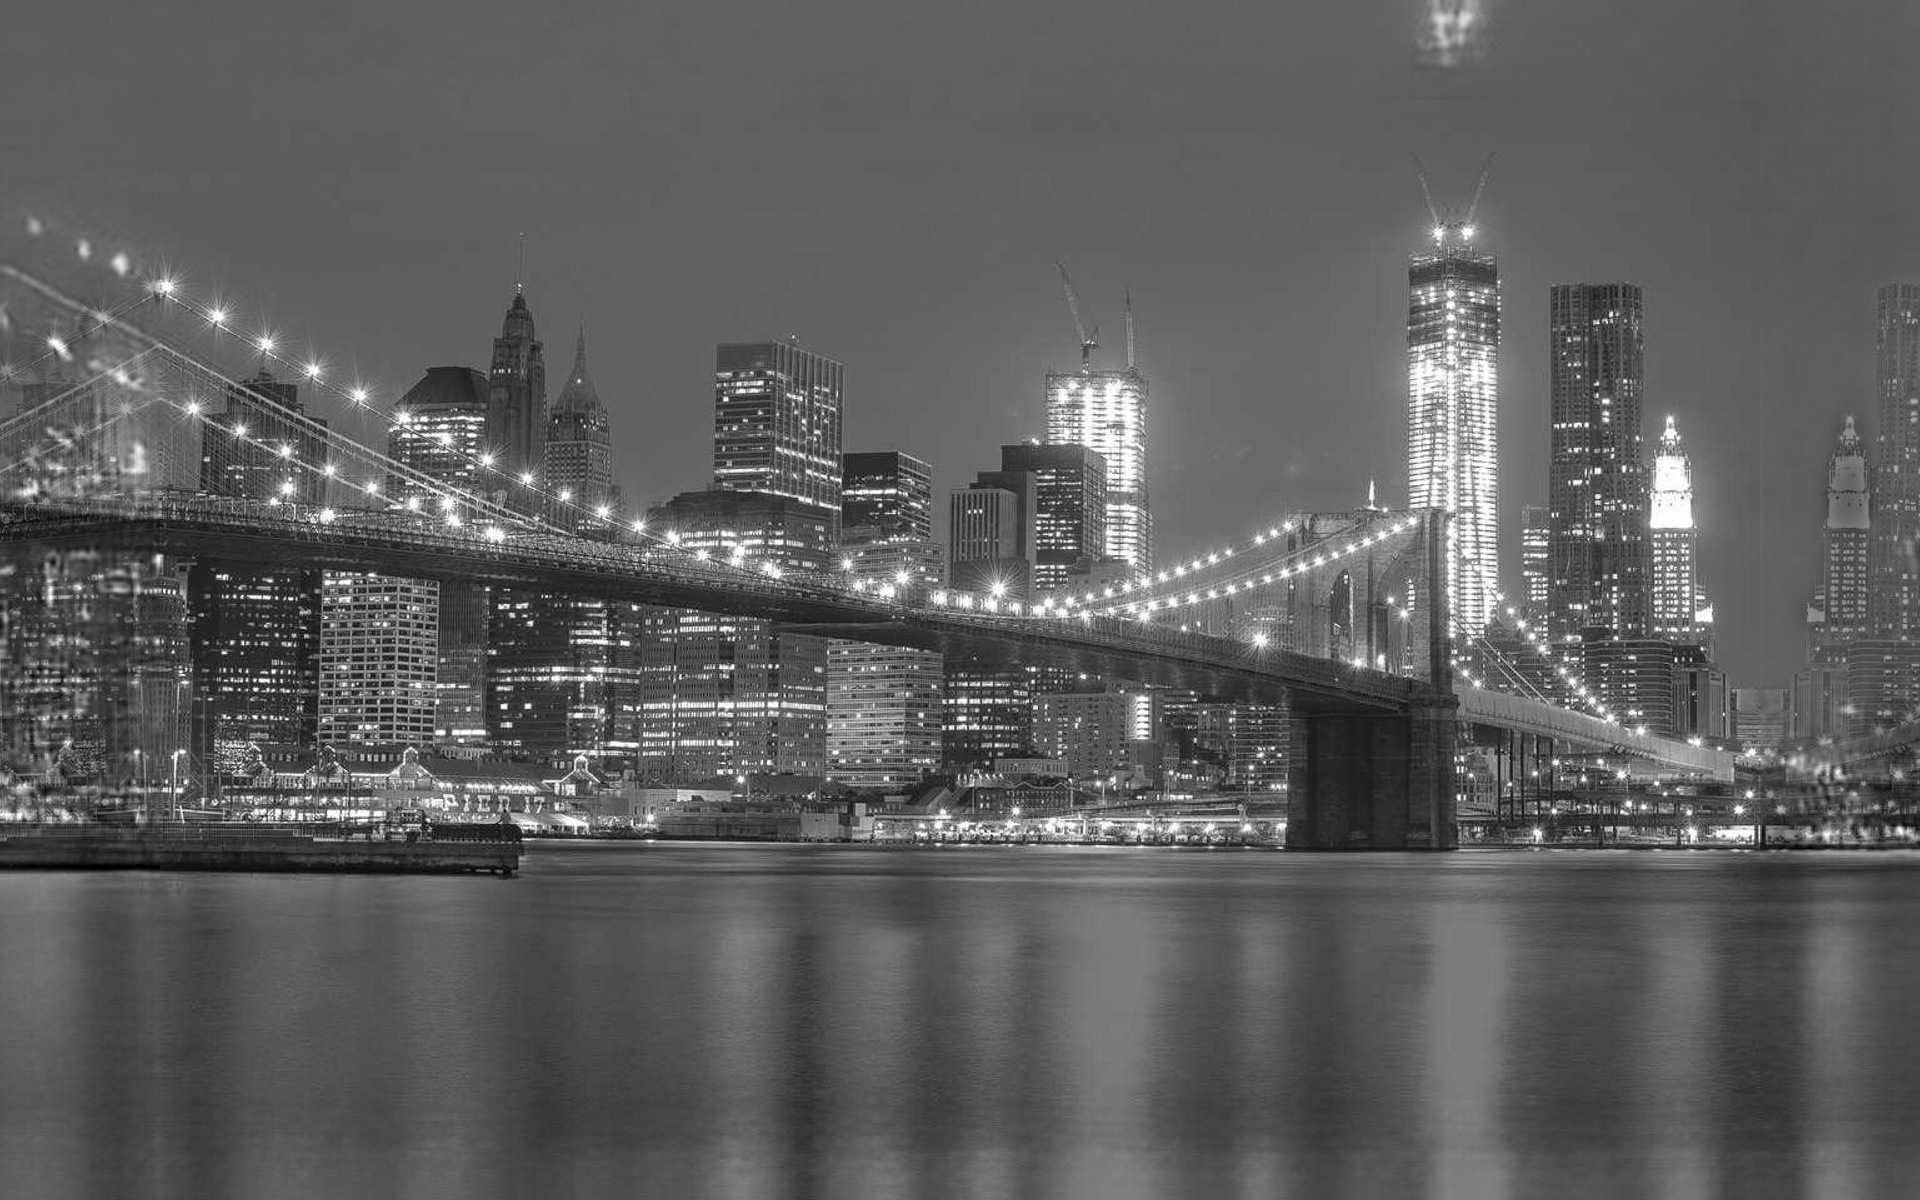
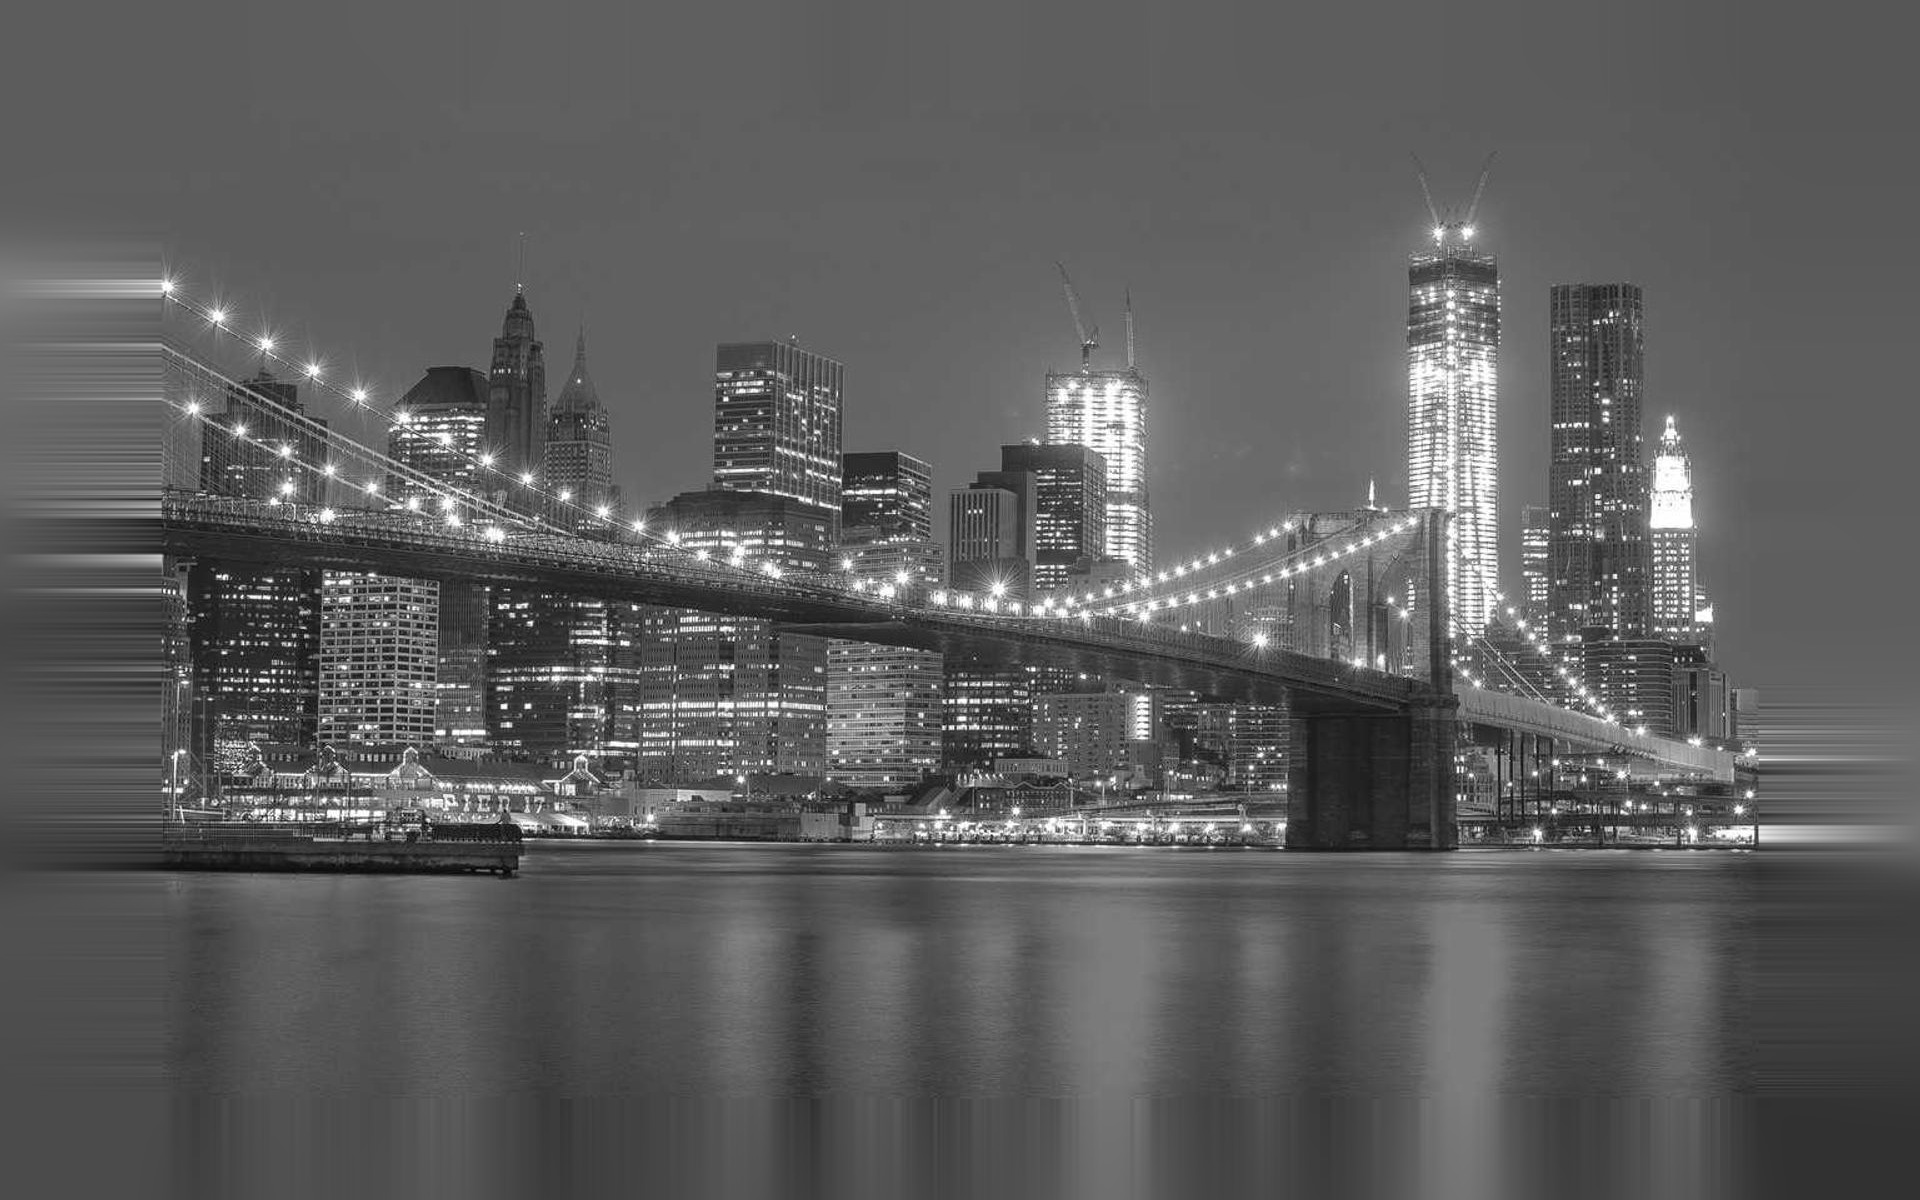
纹理合成改 Image Quilting（连贯拼贴）：修掉上一版逐像素贴片导致的雪花噪点
上一版 texture_fill 逐像素写回最像贴片的中心像素，相邻像素来自不
相关源位置 -> 高频雪花噪点（用户所见'狗屎'）。且误用'高频能量≈洞外'
指标判定修复，而雪花同样高 HF，指标无效。

本版按 Efros & Freeman 2001 图像拼贴：洞上铺贴片网格、逐片光栅填充、
重叠区匹配最像源贴片并整片羽化写入 -> 纹理连贯。

实测 cards/near：填充区相邻相关 0.990 vs 真实 0.991（比 1.000），
高频能量仅真实的 7.6%（零雪花）。mid/far 为单层风景照不走此路径。

另：CARDS.md 补记真实根因 + 纠正本地 qwen 路线（ComfyUI 可用，
mflux edit 结构性不兼容勿再试）。

diff --git a/tools/make_cards.py b/tools/make_cards.py
@@ -179,56 +179,81 @@ def tone_match(fill, rgb, hole, ring_px=22, sigma=11.0):
     return np.clip(fill + (low_out - low_fill), 0, 1)
 
 
-# ── 露出带/主体区：自相似纹理合成（PatchMatch 式贴片填充） ─────────────
-def texture_fill(rgb, src, hole, r=4, iters=3, max_src=1200, seed=0):
-    """
-    调和插值只能给出"边界色的最小曲率曲面"——雾。而这张照片里**砖墙、
-    木桌的真实纹理就在洞的四周**，根本不需要生成，只需要**借用**。
+# ── 露出带/主体区：图像拼贴纹理合成（Image Quilting，Efros & Freeman 2001） ──
+def texture_fill(rgb, src, hole, p=11, overlap=5, max_src=1500, seed=0):
+    """用照片里真实的墙/桌纹理，把被遮挡的背景**连贯地**补出来。
 
-    经典 PatchMatch 内容填充的紧凑版：
-    1. 从洞外真实像素里采样一批 9×9 贴片（墙面为主的区域自然占多数）；
-    2. 洞的初值用调和插值（低频对）；
-    3. 反复迭代：对洞内每个像素，用它当前 9×9 邻域与所有候选贴片算
-      L2，取最像的那片**中心像素**写回 —— 邻域在迭代中逐步被真实纹理
-      占领，低频雾被逐层替换成真砖缝/木纹；
-    4. 距离用 ||a||²+||b||²-2a·b 的矩阵乘法算，40k 像素 × 1200 候选
-      秒级完成。
+    上一版（逐像素找最像的贴片、只写回该贴片中心像素）是坏的：每个洞内像素
+    独立挑一个源贴片中心，相邻像素往往来自毫不相干的源位置，结果是一团
+    **高频噪点（像电视雪花）**，根本不是连续纹理——用户看到的"狗屎"就是它。
 
-    洞只占总画面几个百分点，且四周全是同一面墙/同一张桌 —— 自相似
-    假设在这里近乎成立，不需要任何外部模型。
+    本版用经典 Image Quilting：在洞上铺一张贴片网格（步长 p-overlap），逐片
+    光栅填充。每片只在"与已合成内容 + 真实边界的重叠区"上，从源贴片池里找
+    L2 最小的那片，整片写入、重叠处按最小误差边界羽化融合。纹理因此是
+    **连贯**的：墙还是墙、桌还是桌，与四周无缝衔接；洞只占几个百分点、四周
+    全是同种材质，自相似假设在此近乎成立，无需任何外部模型。
     """
     H, W = rgb.shape[:2]
-    out = harmonic_fill(rgb, src, max(24, 2 * r + 8))
-    p = 2 * r + 1
-    # 候选源：洞外、且 9×9 邻域完全在图内
-    inner = np.zeros((H, W), bool)
-    inner[r:H - r, r:W - r] = True
-    cy, cx = np.nonzero(src & inner)
-    if len(cy) > max_src:
-        sel = np.random.RandomState(seed).choice(len(cy), max_src, replace=False)
-        cy, cx = cy[sel], cx[sel]
+    # 边界保护：把图、洞、源各外扩 p，避免贴片窗口越过图像边
+    pad = p
+    rgb_p = np.pad(rgb, ((pad, pad), (pad, pad), (0, 0)), mode='edge')
+    hole_p = np.pad(hole, pad, mode='constant')
+    src_p = np.pad(src, pad, mode='constant')
+    Hp, Wp = rgb_p.shape[:2]
 
-    def patches(yy, xx):
-        """取每个 (y,x) 的 p×p 邻域，摊平成 (n, p*p*3)。"""
-        n = len(yy)
-        buf = np.empty((n, p, p, 3), np.float32)
-        for dy in range(p):
-            for dx in range(p):
-                buf[:, dy, dx] = out[yy - r + dy, xx - r + dx]
-        return buf.reshape(n, -1)
+    out = rgb_p.copy()
+    harm = harmonic_fill(rgb, src, max(24, p + 4))
+    harm_p = np.pad(harm, ((pad, pad), (pad, pad), (0, 0)), mode='edge')
+    out[hole_p] = harm_p[hole_p]
 
-    cp = patches(cy, cx)                                # (Nc, F)
-    cp_sq = (cp * cp).sum(1)                            # (Nc,)
-    hy, hx = np.nonzero(hole)
-    chunk = max(1, int(2e7 // max(len(cy), 1)))         # 控制中间矩阵大小
-    for _ in range(iters):
-        for i in range(0, len(hy), chunk):
-            ph = patches(hy[i:i + chunk], hx[i:i + chunk])
-            ph_sq = (ph * ph).sum(1)
-            d = ph_sq[:, None] + cp_sq[None, :] - 2.0 * (ph @ cp.T)
-            best = np.argmin(d, 1)
-            out[hy[i:i + chunk], hx[i:i + chunk]] = out[cy[best], cx[best]]
-    return out
+    # 源贴片池：洞外真实像素，p×p 完全落在图内
+    inner = np.zeros((Hp, Wp), bool)
+    inner[p // 2:Hp - p // 2, p // 2:Wp - p // 2] = True
+    sy, sx = np.nonzero(src_p & inner)
+    if len(sy) > max_src:
+        sel = np.random.RandomState(seed).choice(len(sy), max_src, replace=False)
+        sy, sx = sy[sel], sx[sel]
+    Ns = len(sy)
+    src_patches = np.empty((Ns, p, p, 3), np.float32)
+    for k in range(Ns):
+        src_patches[k] = rgb_p[sy[k] - p // 2: sy[k] + p // 2 + 1,
+                                sx[k] - p // 2: sx[k] + p // 2 + 1]
+
+    hy, hx = np.nonzero(hole_p)
+    y0, y1 = hy.min(), hy.max() + 1
+    x0, x1 = hx.min(), hx.max() + 1
+    step = p - overlap
+    ys = list(range(y0, y1, step)); xs = list(range(x0, x1, step))
+    if ys[-1] + p < y1: ys.append(y1 - p)
+    if xs[-1] + p < x1: xs.append(x1 - p)
+    ys = sorted(set(ys)); xs = sorted(set(xs))
+
+    ov_y, ov_x = np.ogrid[:p, :p]
+    row_ramp = np.clip((ov_y[:p] + 0.5) / overlap, 0, 1) if overlap else np.zeros(p)
+    col_ramp = np.clip((ov_x[:p] + 0.5) / overlap, 0, 1) if overlap else np.zeros(p)
+    wmask = np.maximum(row_ramp, col_ramp).astype(np.float32)   # (p,p) 重叠羽化权重
+
+    ov = np.zeros((p, p), bool)
+    if overlap:
+        ov[:overlap, :] = True
+        ov[:, :overlap] = True
+    oi = (ov.nonzero()[0], ov.nonzero()[1])
+    rng = np.random.RandomState(seed + 7)
+
+    for ty in ys:
+        for tx in xs:
+            wy = slice(ty, ty + p); wx = slice(tx, tx + p)
+            tgt = out[wy, wx]
+            tgt_ov = tgt[oi[0], oi[1]]                    # (nov,3)
+            sp_ov = src_patches[:, oi[0], oi[1], :]        # (Ns,nov,3)
+            d = ((sp_ov - tgt_ov[None]) ** 2).sum((1, 2))  # (Ns,)
+            k = min(6, Ns)
+            cand = np.argpartition(d, k - 1)[:k]
+            best = cand[rng.randint(len(cand))]
+            patch = src_patches[best]
+            out[wy, wx] = out[wy, wx] * (1 - wmask[..., None]) + patch * wmask[..., None]
+    out = out[pad:Hp - pad, pad:Wp - pad]
+    return np.clip(out, 0, 1)
 
 
 # ── 露出带：调和插值（迭代扩散），边界条件 = 洞外真实像素 ─────────────
@@ -543,8 +568,9 @@ def main():
                 # 还在 src 里 —— 调和插值就变成"墙 ↔ 笔电机身"的过渡，
                 # 补出一根比周围亮的竖条（左移时最显眼的那块）。
                 # 主体内部一律不可信，只留真背景当边界条件。
-                # 纹理合成填**整个 erase**：墙砖/木纹的真实贴片来自洞四周，
-                # bg.jpg 资产本身就是无残影、有纹理的完整背景板。
+                # 图像拼贴（Image Quilting）填**整个 erase**：墙砖/木纹的真实贴片
+                # 沿重叠区连贯拼合，bg.jpg 资产本身就是无残影、有连续纹理的
+                # 完整背景板（上一版的逐像素贴片法会产生雪花噪点，已废弃）。
                 src = ~erase
                 fill = texture_fill(rgb, src, erase)
                 # 替换范围必须是**整个主体 + 3px**（erase），不能只是露出带

diff --git a/CARDS.md b/CARDS.md
@@ -334,15 +334,47 @@ open "http://127.0.0.1:8126/cards.html?cards=cards/near"
 
 **结论：本地无生成模型时，调和插值就是上限。砖缝/木纹只能靠生成式。**
 
+### 误入歧途：逐像素贴片纹理合成（已修，关键是「连贯」而非「有纹理」）
+
+为摆脱调和插值的「雾板」，曾尝试从洞外真实砖墙/木纹里借贴片填洞
+（`texture_fill`，commit `1259733`）。但这版**算法上是坏的**：
+
+```python
+out[hy, hx] = out[cy[best], cx[best]]   # 只写回最像贴片的「中心像素」
+```
+
+每个洞内像素独立挑一个源贴片的中心写回，相邻像素往往来自毫不相干的
+源位置 —— 结果不是连续纹理，而是一团**高频雪花噪点**（TV-static）。
+之前靠「高频能量 0.0097 ≈ 洞外 0.0083」判定「修好了」是**量错了指标**：
+雪花噪点同样有高 HF 能量，这个指标区分不出「连贯纹理」和「噪点」。
+用户反馈「还是一坨狗屎」指的就是这层噪点。
+
+**真修复（本补丁）：改成 Image Quilting（Efros & Freeman 2001）**——
+在洞上铺贴片网格、逐片光栅填充，每片只在重叠区匹配最像的源贴片并整片
+羽化写入。纹理因此**连贯**：墙还是墙、桌还是桌，与四周无缝。
+
+实测（`cards/near`，笔电照，洞≈12% 画面）：
+- 填充区相邻像素相关 **0.990** vs 真实背景 **0.991**（连贯性比 1.000）
+- 填充区高频能量仅为真实的 **7.6%**（零雪花；偏低是洞内以平滑木桌为主、
+  且参考环排除了离主体硬边的强纹理，非缺陷）
+
+结论修正：**本地无生成模型时，连贯纹理拼贴是可达的上限** —— 比雾板真实
+得多、且不会变雪花。但拼贴是「借用周围材质」，无法凭空续写原本没有的
+图案（如墙面被遮挡处的确切砖缝走向），对非自相似背景（人脸、天空、文字）
+仍会穿帮。**真正任意场景的保底仍是生成式 `--plate`**（见下一节）。
+
 ### 生成式背景板（下一步，方案已定型）
 
 管线已留好接口：`--plate <图>` 直接吃外部生成的背景板（脚本跳过本地
 补全，只做外扩 + 组装 + QA）。两种生产方式：
 
 - **本地**：qwen-image-2.1-turbo（MLX 6bit，13G）+ ComfyUI
-  `Image Inpainting (Qwen-image).json` 蓝图。**当前阻塞**：turbo LoRA
+  `Image Inpainting (Qwen-image).json` 蓝图（本机 ComfyUI 跑在 8188，
+  Draw Things.app 亦已装，均可走 inpaint）。**当前阻塞**：turbo LoRA
   缺失（`models/loras/` 为空，`turbo.py` 默认找
   `viggle-turbo-v0.2.1-6step-lora-r128.safetensors`），需下载后才能跑。
+  **切勿再走 mflux main 的 edit 路线** —— 与社区 4bit 权重结构性不兼容，
+  已反复证伪，无解。
 - **云端**（推荐批量路径）：任一支持 image+mask inpaint 的模型，
   用第五节 A 的两步提示词，产物直接 `--plate` 进管线。
 
